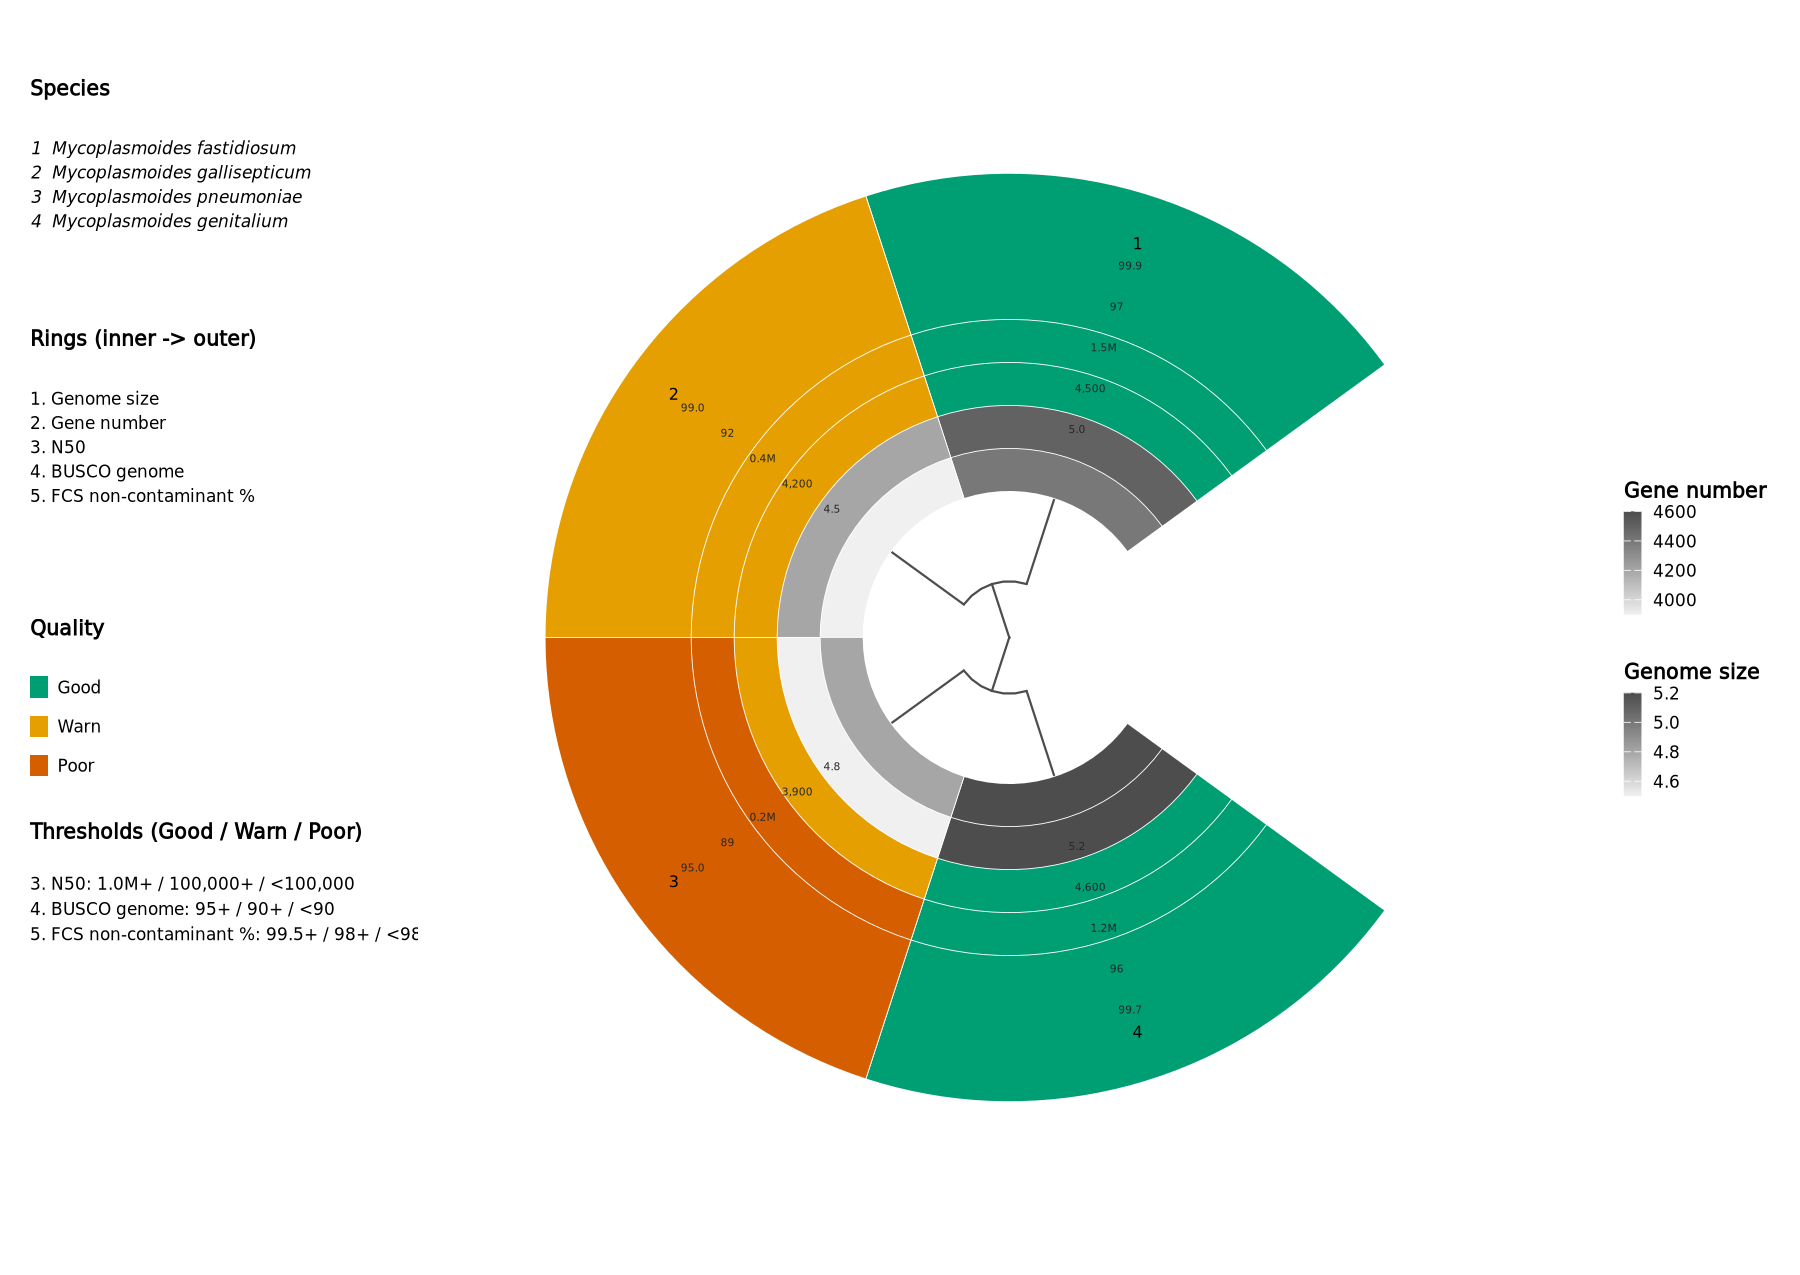
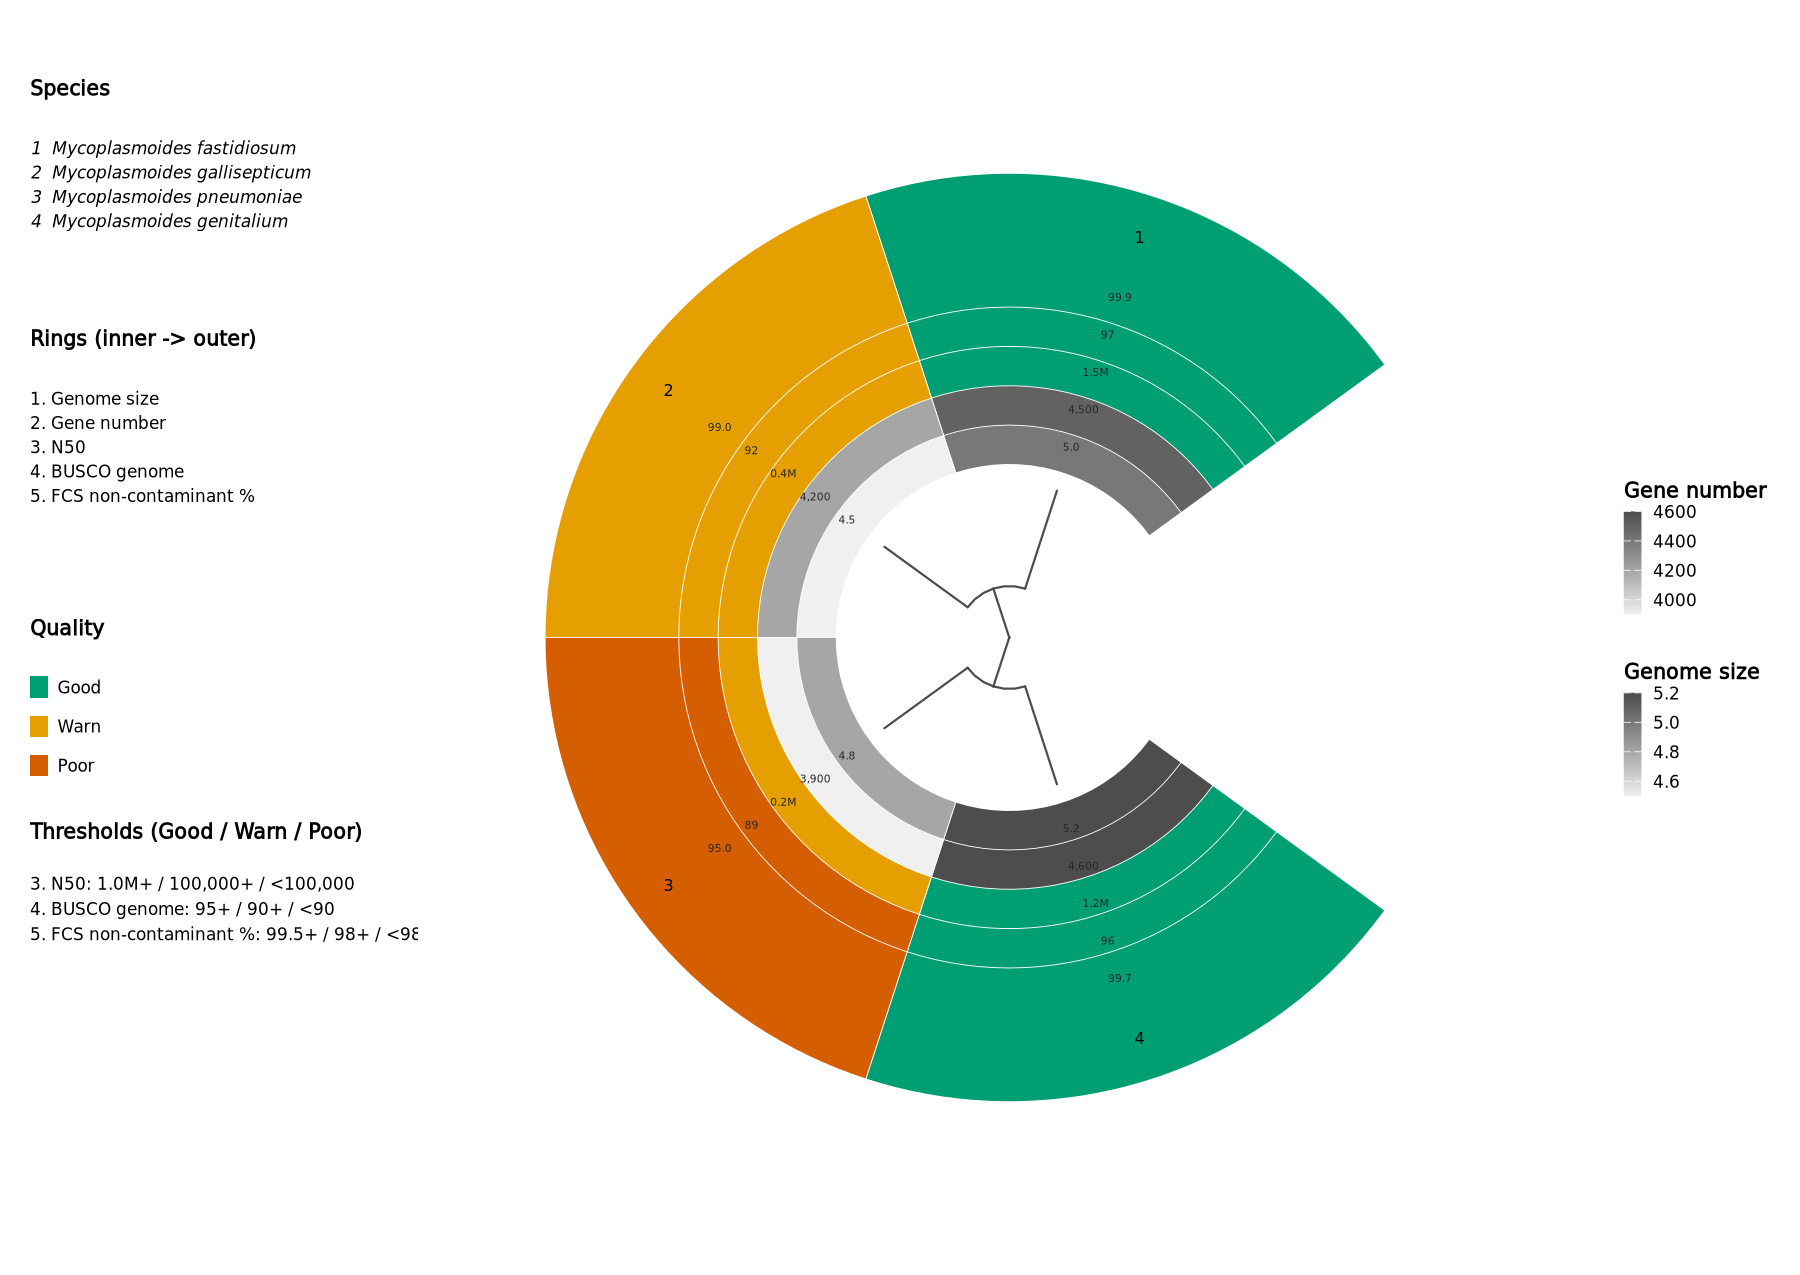
Fix uneven ring thickness in the circular tree layout
geom_fruit()'s very first call on a fresh ggtree allocates a one-off,
disproportionate slice of the plot's radius that width/offset can't
compensate for - every ring after the first was already sized
consistently. This made whichever ring was drawn first (or, after
adding the FCS ring, whichever ended up last/outermost) dominate the
figure while other rings were squeezed to illegible slivers.

Adds a fully transparent zero-content "primer" ring before the real
rings to absorb that anomaly, verified across 2, 5, and 8-ring
configurations. Regenerated the circular example image accordingly.

Changed region(s): [[0.3733, 0.2447, 0.6844, 0.7647], [0.5289, 0.52, 0.56, 0.5506], [0.5289, 0.4588, 0.56, 0.4894]]

diff --git a/CHANGELOG.md b/CHANGELOG.md
@@ -9,6 +9,7 @@ and this project adheres to [Semantic Versioning](https://semver.org/spec/v2.0.0
 
 - Added FCS-GX contamination stats to the tree summary plot ([#265](https://github.com/nf-core/genomeqc/issues/265)): each genome's percentage of the assembly flagged as foreign contamination is now shown as a pie chart (non-contaminant/contaminant, coloured to match the BUSCO panel) in the conventional layout, or a Good (≥99.5% non-contaminant) / Warn (98-99.5%) / Poor (<98%) traffic-light ring in the circular layout (`--tree_style circular`), reusing the existing quality-scoring machinery (`--quality_preset`/`--quality_thresholds`, new `fcs_noncontam` metric). Only shown when decontamination was run (`--gxdb`/`--gxdb_manifest`). Added a new local module (`fcsgx_report_2_table`, mirroring the existing `te_tbl_2_table` pattern) to parse each species' `*.fcs_gx_report.txt` header into a combined per-species contamination table for the tree plot.
 - Fixed a stale filename reference in `bin/shiny_app.R` left over from the `ORTHOLOGOUS_CHROMOSOMES`→`ORTHO_SEQ_COUNT` rename: it was still checking for `species_orthologous_chromosomes_output.tsv`, which no longer exists, so the interactive Shiny app's ortho-seqs panel silently never loaded. Also corrected two pre-existing `fsc_gx_report.txt`/`fsc_adaptor_report.txt` typos in `docs/output.md` (should read `fcs_...`) and broadened `--skip_plots_genome_anno`/`--skip_plots_genome_only`'s schema validation patterns, which predated the BUSCO-pie-split and TE-panel work and so rejected several stat keys (`busco_gen_plot`, `busco_prot_plot`, `te_plot`) that are valid today.
+- Fixed the circular tree layout's rings (`--tree_style circular`) rendering wildly uneven thicknesses - the outermost ring could dominate the entire figure while inner rings were squeezed to illegible slivers, regardless of how many rings were shown. Root cause: `ggtreeExtra::geom_fruit()`'s very first call on a fresh tree allocates a one-off, disproportionate slice of the plot's radius that its `width`/`offset` arguments can't compensate for (every ring after the first was already sized consistently). Added a fully transparent zero-content "primer" ring before the real rings to absorb that one-time anomaly, so every visible ring now gets uniform, comparable thickness. Verified across 2, 5, and 8-ring configurations.
 
 ## v0.0.1 (dev) - [15 June 2026]
 
